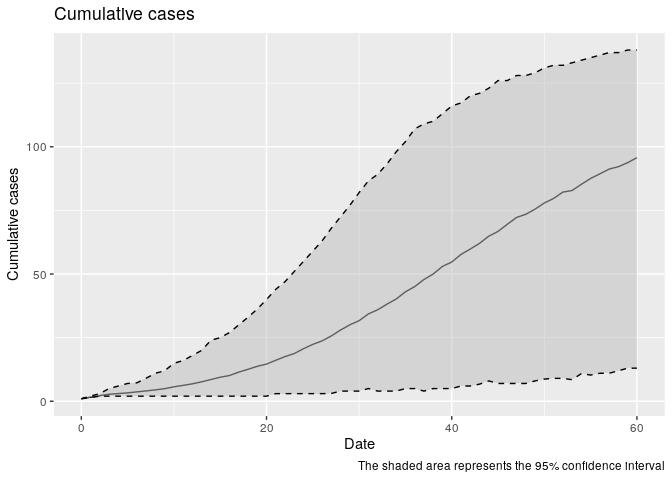
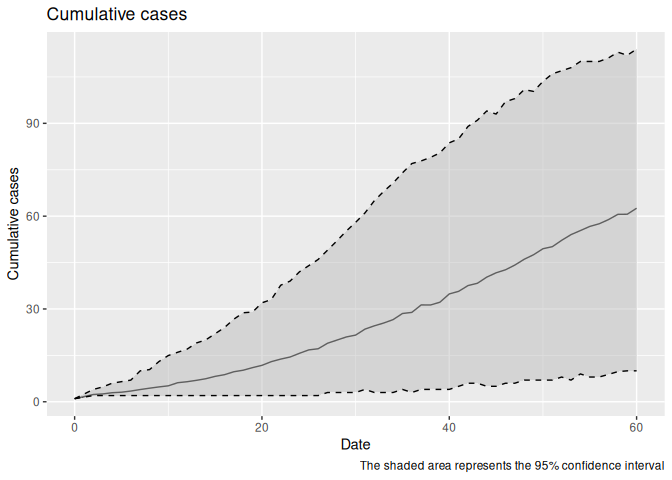
Debugging why it doesnt save

diff --git a/school_quarantine/school_quarantine.cpp b/school_quarantine/school_quarantine.cpp
@@ -6,8 +6,8 @@
 int main(int argc, char *argv[]) {
 
     // Passing the single argument to this function
-    std::string fn      = "new_bridge_88_params.yaml";
-    std::string out_dir = "new_bridge_88";
+    std::string fn      = "canyon_crest_74_params.yaml";
+    std::string out_dir = "canyon_crest_74";
     if (argc != 3 && argc != 1) {
         std::cerr << "Usage: " << argv[0] << " <filename> <outdir>" << std::endl;
         return 1;

diff --git a/school_quarantine/canyon_crest_74.md b/school_quarantine/canyon_crest_74.md
@@ -35,18 +35,18 @@ the following features:
 
 The following is a raw list of the parameters included in the model:
 
-| Parameter             |   Value | Reference                                                           |
-|:----------------------|--------:|:--------------------------------------------------------------------|
-| Contact rate          |    2.38 | Negative binomial. Calibrated using R0=15 as a reference.           |
-| Incubation period     |   12.00 | Geometric + 1. Ref.: Jones and Baranowski (2019)                    |
-| Days undetected      | 2000.00 | Fixed value.                                                        |
-| Prodromal period      |    3.00 | Geometric + 1. Ref.: Jones and Baranowski (2019)                    |
-| Quarantine days       |   21.00 | Utah Measles Disease Plan (“Measles Disease Plan” 2019).            |
-| Rash period           |    4.00 | Geometric + 1. Ref.: “Measles Disease Plan” (2019).                 |
-| Transmission rate     |    0.90 | Prob. of transmission fixed. Calibrated using R0=15 as a reference. |
-| Vax improved recovery |    0.50 | Fixed value.                                                        |
-| Vax efficacy          |    0.99 | Prob. efficacy fixed. Ref.: Liu et al. (2015).                      |
-| R0                    |   15.00 | Theoretical R0.                                                     |
+| Parameter | Value | Reference |
+|:---|---:|:---|
+| Contact rate | 2.38 | Negative binomial. Calibrated using R0=15 as a reference. |
+| Incubation period | 12.00 | Geometric + 1. Ref.: Jones and Baranowski (2019) |
+| Days undetected | -1.00 | Fixed value. |
+| Prodromal period | 3.00 | Geometric + 1. Ref.: Jones and Baranowski (2019) |
+| Quarantine days | 21.00 | Utah Measles Disease Plan (“Measles Disease Plan” 2019). |
+| Rash period | 4.00 | Geometric + 1. Ref.: “Measles Disease Plan” (2019). |
+| Transmission rate | 0.90 | Prob. of transmission fixed. Calibrated using R0=15 as a reference. |
+| Vax improved recovery | 0.50 | Fixed value. |
+| Vax efficacy | 0.99 | Prob. efficacy fixed. Ref.: Liu et al. (2015). |
+| R0 | 15.00 | Theoretical R0. |
 
 Other parameters can be found the corresponding parameters document
 [here](canyon_crest_74_params.yaml).
@@ -57,7 +57,7 @@ This model simulates the spread of measles in a highschool. The
 highschool has students, and the simulation runs for days with one index
 case. The following is the output from the highschool model:
 
-    Using file: /tmp/RtmpB1KNeD/file54f32c6ebbd.yaml
+    Using file: canyon_crest_74_params.yaml
     Starting multiple runs (2000) using 10 thread(s)
     _________________________________________________________________________
     _________________________________________________________________________
@@ -72,10 +72,10 @@ case. The following is the output from the highschool model:
     Number of entities  : 0
     Days (duration)     : 60 (of 60)
     Number of viruses   : 1
-    Last run elapsed t  : 0.00s
-    Total elapsed t     : 1.00s (2000 runs)
-    Last run speed      : 5.32 million agents x day / second
-    Average run speed   : 49.16 million agents x day / second
+    Last run elapsed t  : 3.00ms
+    Total elapsed t     : 756.00ms (2000 runs)
+    Last run speed      : 8.14 million agents x day / second
+    Average run speed   : 75.20 million agents x day / second
     Rewiring            : off
 
     Global events:
@@ -88,39 +88,45 @@ case. The following is the output from the highschool model:
      - Vaccine
 
     Model parameters:
-     - 1/Rash period          : 0.2500
      - Contact rate           : 2.3810
+     - Days undetected        : -1.0000
+     - Hospitalization days   : 7.0000
+     - Hospitalization rate   : 0.2000
      - Incubation period      : 12.0000
-     - Days undetected       : 2000.0000
      - Prodromal period       : 3.0000
      - Quarantine days        : 21.0000
      - Quarantine willingness : -1.0000
+     - Rash days              : 4.0000
      - Transmission rate      : 0.9000
      - Vaccination rate       : 0.7400
      - Vax efficacy           : 0.9900
      - Vax improved recovery  : 0.5000
 
     Distribution of the population at time 60:
-      - (0) Susceptible             : 473 -> 460
-      - (1) Exposed                 :   1 -> 5
-      - (2) Prodromal               :   0 -> 2
-      - (3) Rash                    :   0 -> 1
-      - (4) Isolated                :   0 -> 0
-      - (5) Quarantined Exposed     :   0 -> 0
-      - (6) Quarantined Susceptible :   0 -> 0
-      - (7) Quarantined Infectious  :   0 -> 0
-      - (8) Recovered               :   0 -> 6
+      - ( 0) Susceptible             : 473 -> 473
+      - ( 1) Exposed                 :   1 -> 0
+      - ( 2) Prodromal               :   0 -> 0
+      - ( 3) Rash                    :   0 -> 0
+      - ( 4) Isolated                :   0 -> 0
+      - ( 5) Quarantined Exposed     :   0 -> 0
+      - ( 6) Quarantined Susceptible :   0 -> 0
+      - ( 7) Quarantined Infectious  :   0 -> 0
+      - ( 8) Quarantined Recovered   :   0 -> 0
+      - ( 9) Hospitalized            :   0 -> 0
+      - (10) Recovered               :   0 -> 1
 
     Transition Probabilities:
-     - Susceptible              1.00  0.00  0.00  0.00  0.00  0.00  0.00  0.00  0.00
-     - Exposed                  0.00  0.90  0.10  0.00  0.00  0.00  0.00  0.00  0.00
-     - Prodromal                0.00  0.00  0.63  0.37  0.00  0.00  0.00  0.00  0.00
-     - Rash                     0.00  0.00  0.00  0.65  0.00  0.00  0.00  0.00  0.35
-     - Isolated                    -     -     -     -     -     -     -     -     -
-     - Quarantined Exposed         -     -     -     -     -     -     -     -     -
-     - Quarantined Susceptible     -     -     -     -     -     -     -     -     -
-     - Quarantined Infectious      -     -     -     -     -     -     -     -     -
-     - Recovered                0.00  0.00  0.00  0.00  0.00  0.00  0.00  0.00  1.00
+     - Susceptible              1.00  0.00  0.00  0.00  0.00  0.00  0.00  0.00  0.00  0.00  0.00
+     - Exposed                  0.00  0.94  0.06  0.00  0.00  0.00  0.00  0.00  0.00  0.00  0.00
+     - Prodromal                0.00  0.00  0.00  1.00  0.00  0.00  0.00  0.00  0.00  0.00  0.00
+     - Rash                     0.00  0.00  0.00  0.00  0.00  0.00  0.00  0.00  0.00  0.00  1.00
+     - Isolated                    -     -     -     -     -     -     -     -     -     -     -
+     - Quarantined Exposed         -     -     -     -     -     -     -     -     -     -     -
+     - Quarantined Susceptible     -     -     -     -     -     -     -     -     -     -     -
+     - Quarantined Infectious      -     -     -     -     -     -     -     -     -     -     -
+     - Quarantined Recovered       -     -     -     -     -     -     -     -     -     -     -
+     - Hospitalized                -     -     -     -     -     -     -     -     -     -     -
+     - Recovered                0.00  0.00  0.00  0.00  0.00  0.00  0.00  0.00  0.00  0.00  1.00
 
 ## Flowchart
 
@@ -130,14 +136,17 @@ model:
 ``` mermaid
 flowchart LR
     s0[Exposed]
-    s1[Prodromal]
-    s2[Rash]
-    s3[Recovered]
-    s4[Susceptible]
-    s0 -->|0.083434| s1
-    s1 -->|0.333277| s2
-    s2 -->|0.250808| s3
-    s4 -->|0.003250| s0
+    s1[Hospitalized]
+    s2[Prodromal]
+    s3[Rash]
+    s4[Recovered]
+    s5[Susceptible]
+    s0 -->|0.083533| s2
+    s1 -->|0.144126| s4
+    s2 -->|0.331922| s3
+    s3 -->|0.157657| s1
+    s3 -->|0.631381| s4
+    s5 -->|0.001553| s0
 
 ```
 
@@ -145,14 +154,14 @@ flowchart LR
 
 Estimating the outbreak size:
 
-|     Size | Probability    | Likely size (if \> Size) |
-|---------:|:---------------|:-------------------------|
-|   2.0000 | 0.93           | \[4.00, 140.00\]         |
-|   5.0000 | 0.89           | \[9.00, 140.00\]         |
-|  10.0000 | 0.87           | \[15.00, 140.00\]        |
-|  20.0000 | 0.83           | \[28.00, 140.00\]        |
-| 108.0000 | Median (50%\>) | \[ 110 , 142 \]          |
-|  88.1525 | Mean (average) | \[ 92 , 141 \]           |
+|   Size | Probability    | Likely size (if \> Size) |
+|-------:|:---------------|:-------------------------|
+|  2.000 | 0.83           | \[2.00, 112.00\]         |
+|  5.000 | 0.74           | \[6.00, 113.00\]         |
+| 10.000 | 0.69           | \[11.00, 114.00\]        |
+| 20.000 | 0.61           | \[21.00, 115.00\]        |
+| 35.000 | Median (50%\>) | \[ 38 , 116.25 \]        |
+| 42.271 | Mean (average) | \[ 44 , 117 \]           |
 
 Likely sizes of the outbreak based on 2000 simulations.
 
@@ -173,11 +182,11 @@ transitions:
 
 ![](canyon_crest_74_files/figure-commonmark/reproductive-number-1.png)
 
-    Mean R0:3.8375
+    Mean R0:2.4365
 
-    Median R0:3
+    Median R0:2
 
-    95% CI R0:0,11
+    95% CI R0:0,8
 
 # References
 
